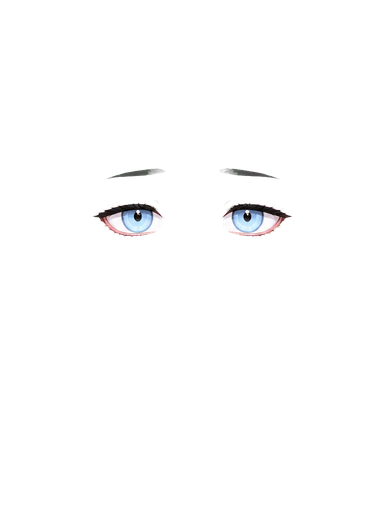
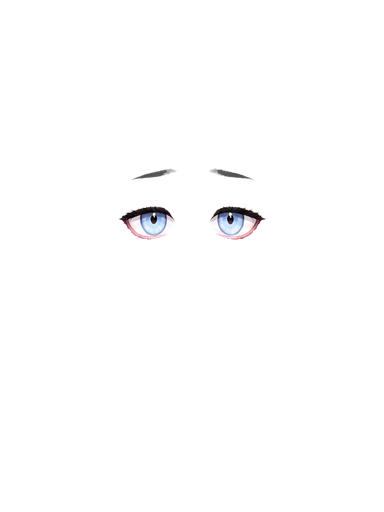
Expand illustrated portrait head library

diff --git a/src/portrait-v2.js b/src/portrait-v2.js
@@ -416,16 +416,6 @@ export function drawIllustratedPortrait(a) {
 }
 
 const FACE_ASSET = ['round', 'oval', 'square', 'sharp', 'chubby', 'cat'];
-const EYE_ASSET = {
-  round: 'round', almond: 'almond', sharp: 'sharp', up: 'sharp', droop: 'droop', big: 'round',
-  sleepy: 'sleepy', slit: 'sharp', glow: 'round', dull: 'sleepy', star: 'round', moon: 'sleepy',
-  gem: 'round', fox: 'fox', puppy: 'droop', mono: 'almond', heart: 'round', wink: 'almond',
-};
-const HAIR_ASSET = [
-  'bob', 'bob', 'bob', 'long', 'high-pony', 'twin', 'wavy', 'bob', 'long', 'high-pony', 'wavy',
-  'wavy', 'bob', 'braid', 'bob', 'high-pony', 'wavy', 'high-pony', 'braid', 'bob', 'wavy', 'wavy',
-  'braid', 'high-pony', 'long', 'bob', 'twin', 'high-pony', 'twin', 'wavy', 'high-pony', 'twin', 'braid', 'wavy',
-];
 
 const layerImages = new Map();
 const tintedLayers = new Map();
@@ -484,12 +474,13 @@ function drawLayeredPortrait(a) {
   if (typeof document === 'undefined') return null;
   const faceId = FACE_ASSET[safeIndex(a.face, FACE_ASSET.length)];
   const eyeId = EYES[safeIndex(a.eye, EYES.length)]?.id || 'almond';
-  const eyeAsset = EYE_ASSET[eyeId] || 'almond';
-  const hairAsset = HAIR_ASSET[safeIndex(a.hairLen, HAIR_ASSET.length)] || 'bob';
+  const hairId = LENGTHS[safeIndex(a.hairLen, LENGTHS.length)]?.id || 'short';
+  const fringeId = FRINGES[safeIndex(a.fringe, FRINGES.length)]?.id || 'part';
   const face = requestLayer(`assets/portrait-v2/faces/${faceId}.png`);
-  const eyes = requestLayer(`assets/portrait-v2/eyes/${eyeAsset}.png`);
-  const hair = requestLayer(`assets/portrait-v2/hair/${hairAsset}.png`);
-  if (!face || !eyes || !hair) return null;
+  const eyes = requestLayer(`assets/portrait-v2/eyes/${eyeId}.png`);
+  const hair = requestLayer(`assets/portrait-v2/hair/${hairId}.png`);
+  const fringe = hairId === 'bald' ? null : requestLayer(`assets/portrait-v2/fringes/${fringeId}.png`);
+  if (!face || !eyes || !hair || (hairId !== 'bald' && !fringe)) return null;
   const pal = palette(a), canvas = document.createElement('canvas'); canvas.width = W; canvas.height = H;
   const ctx = canvas.getContext('2d');
   if (!ctx) return null;
@@ -498,6 +489,7 @@ function drawLayeredPortrait(a) {
   ctx.drawImage(tintLayer(face, 'skin', pal.skin), 0, 0);
   ctx.drawImage(tintLayer(eyes, 'iris', pal.iris), 0, 0);
   ctx.drawImage(tintLayer(hair, 'hair', pal.hair), 0, 0);
+  if (fringe) ctx.drawImage(tintLayer(fringe, 'hair', pal.hair), 0, 0);
   drawRaceFront(ctx, safeIndex(a.race, 18), pal);
   drawAccessory(ctx, a, pal);
   drawFinish(ctx);

diff --git a/docs/portrait-v2-art-spec.md b/docs/portrait-v2-art-spec.md
@@ -48,7 +48,7 @@
 
 ## 首批实装状态
 
-- 已接入 6 套脸型底图、6 套眼型和 6 套发型，全部使用 `384 × 512` 透明画布与统一锚点。
+- 已接入 6 套脸型底图、18 套眼型、14 套独立刘海和 34 套发型主体，全部使用 `384 × 512` 透明画布与统一锚点。
 - 脸型、虹膜、发型分别支持皮肤色、眼睛色、头发色的运行时独立换色，并保留原图明暗和高光。
-- 现有 18 个眼型编号和 34 个发型编号暂时映射到首批 6 套美术母版，编号与旧存档保持稳定。
-- 这一批作为 `?portrait=v2` 实验预览使用；待眼型、发型和独立刘海完成一对一扩充并通过全局界面验收后，再切换为正式默认立绘。
+- `Appearance.eye`、`Appearance.fringe`、`Appearance.hairLen` 均直接读取同名素材，不再复用少量母版；旧存档编号保持稳定。
+- 全量头部部件继续作为 `?portrait=v2` 实验预览使用；待服装、种族特征和配饰完成同画风升级并通过全局界面验收后，再切换为正式默认立绘。
